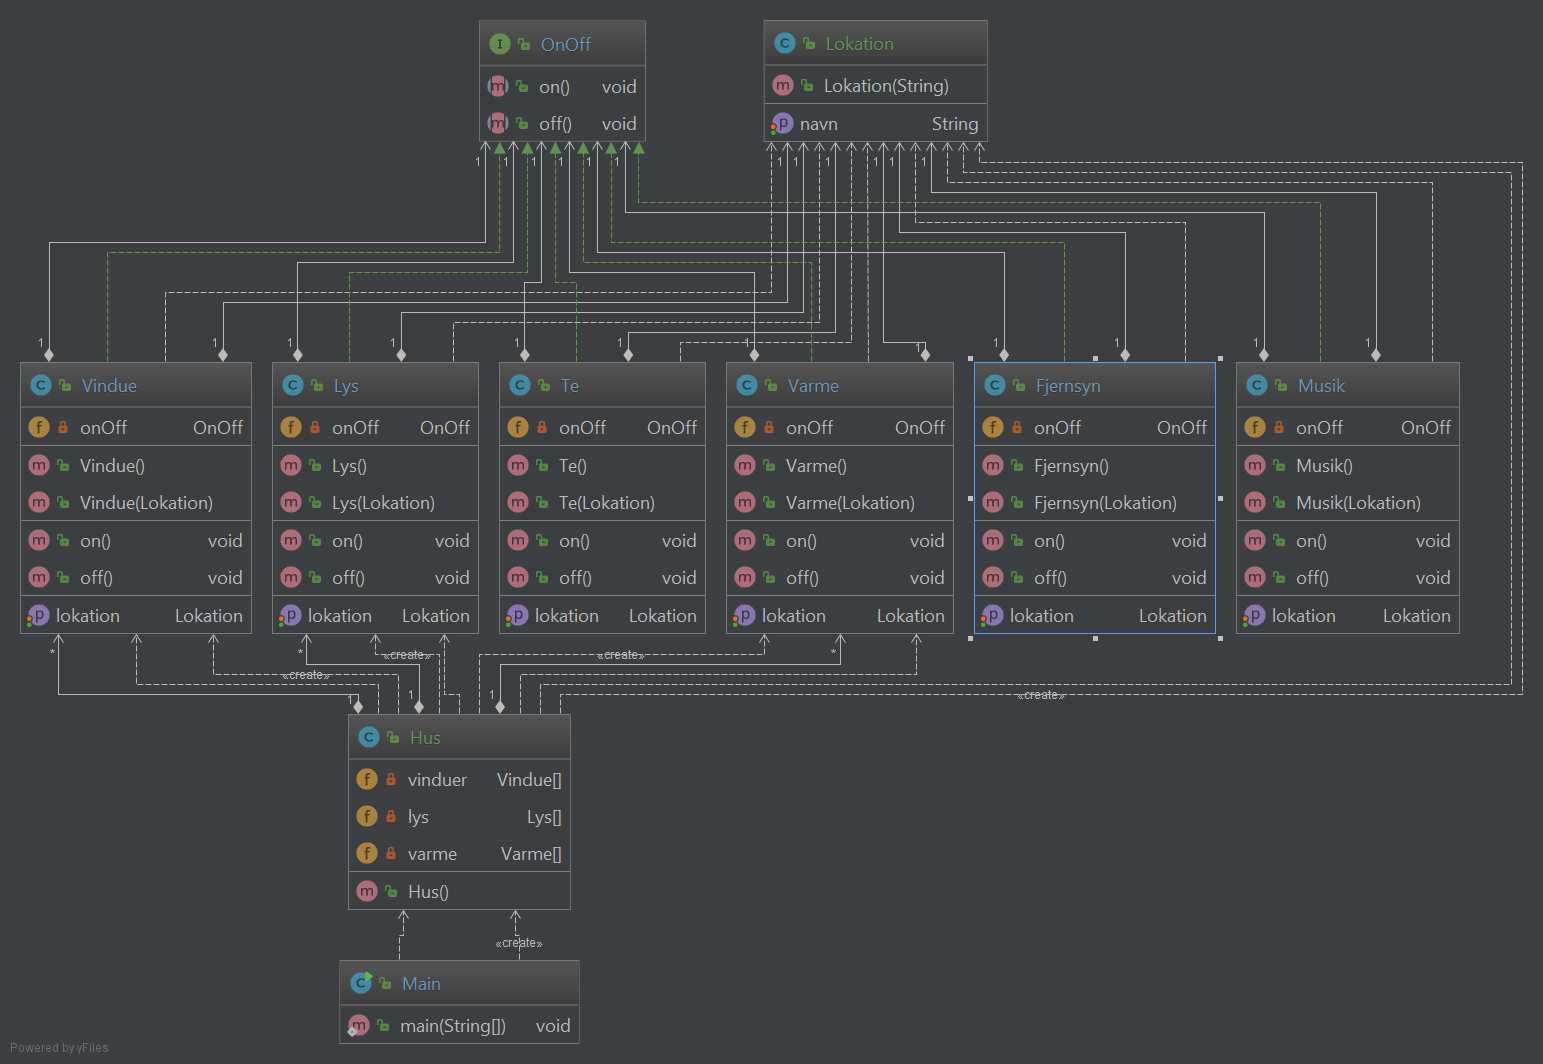
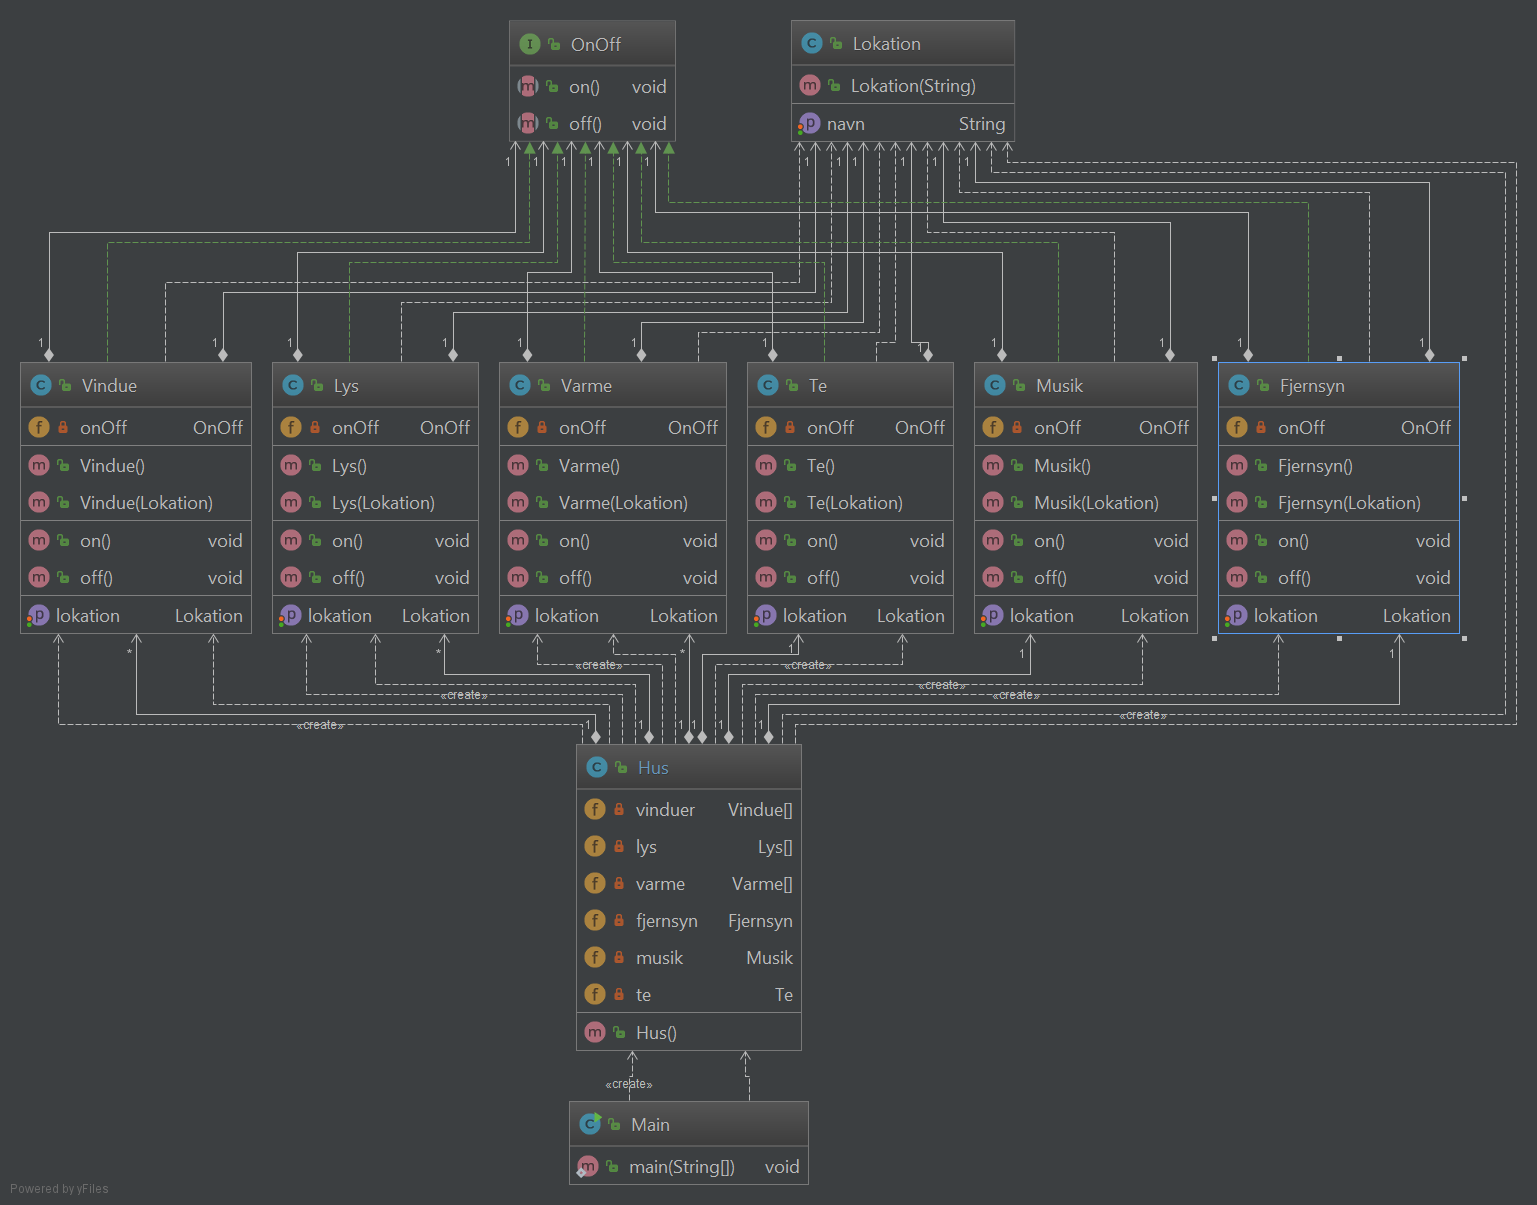
UML opdatering

Changed region(s): [[0.0, 0.0, 0.9681, 0.9925], [0.6558, 0.6513, 0.6871, 0.6823], [0.3123, 0.8684, 0.3435, 0.8994]]

diff --git a/src/Hus.java b/src/Hus.java
@@ -3,6 +3,9 @@ public class Hus {
     private Vindue[] vinduer = new Vindue[5];
     private Lys[] lys = new Lys[10];
     private Varme[] varme = new Varme[3];
+    private Fjernsyn fjernsyn = new Fjernsyn();
+    private Musik musik = new Musik();
+    private Te te = new Te();
 
     public Hus(){
         Lokation stue = new Lokation("Stuen");
